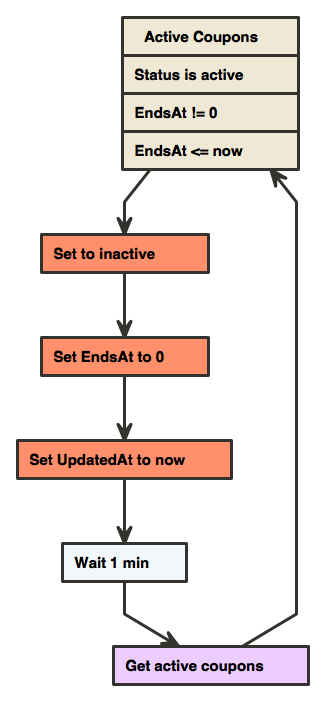
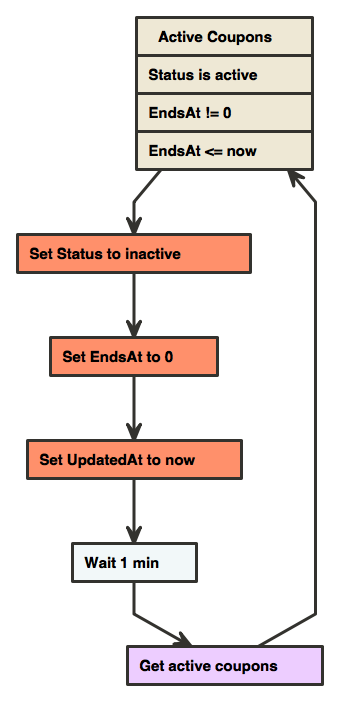
Quick save...

Changed region(s): [[0.0308, 0.0, 0.9538, 0.9886], [0.6154, 0.3295, 0.7692, 0.3894], [0.5538, 0.7789, 0.5846, 0.8388]]

diff --git a/job_lottery_activation.js b/job_lottery_activation.js
@@ -1,0 +1,25 @@
+const styles = require('./styles');
+const nomnoml = require('nomnoml');
+
+const src = `
+${styles._.header}
+
+${styles._.accident}
+${styles._.ignore}
+${styles._.condition}
+${styles._.yes}
+${styles._.no}
+
+[ Pending Lotteries
+  | Status is pending
+  | StartsAt <= now
+  ]
+  
+[Pending Lotteries] -> [<accident> Set Status to active]
+[<accident> Set Status to active] -> [<accident> Set UpdatedAt to now]
+[<accident> Set UpdatedAt to now] -> [<ignore> Wait 1 min]
+[Wait 1 min] -> [<condition> Get pending lotteries]
+[<condition> Get pending lotteries] -> [Pending Lotteries]
+`;
+
+console.log(nomnoml.renderSvg(src));

diff --git a/job_coupon_expiration.js b/job_coupon_expiration.js
@@ -16,8 +16,8 @@ ${styles._.no}
   | EndsAt <= now
   ]
   
-[Active Coupons] -> [<accident> Set to inactive]
-[<accident> Set to inactive] -> [<accident> Set EndsAt to 0]
+[Active Coupons] -> [<accident> Set Status to inactive]
+[<accident> Set Status to inactive] -> [<accident> Set EndsAt to 0]
 [<accident> Set EndsAt to 0] -> [<accident> Set UpdatedAt to now]
 [<accident> Set UpdatedAt to now] -> [<ignore> Wait 1 min]
 [Wait 1 min] -> [<condition> Get active coupons]
